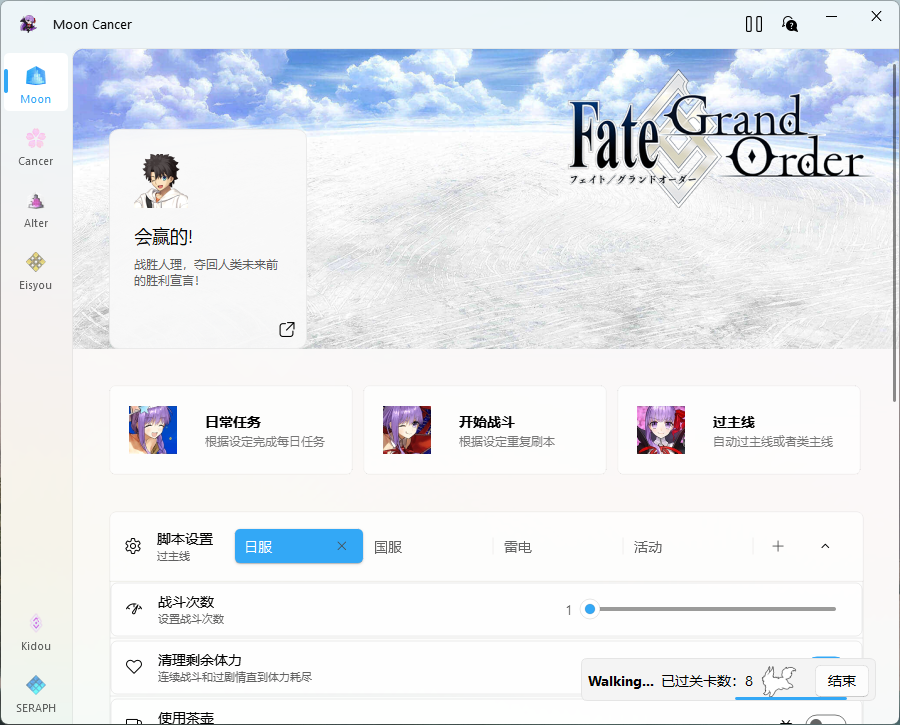
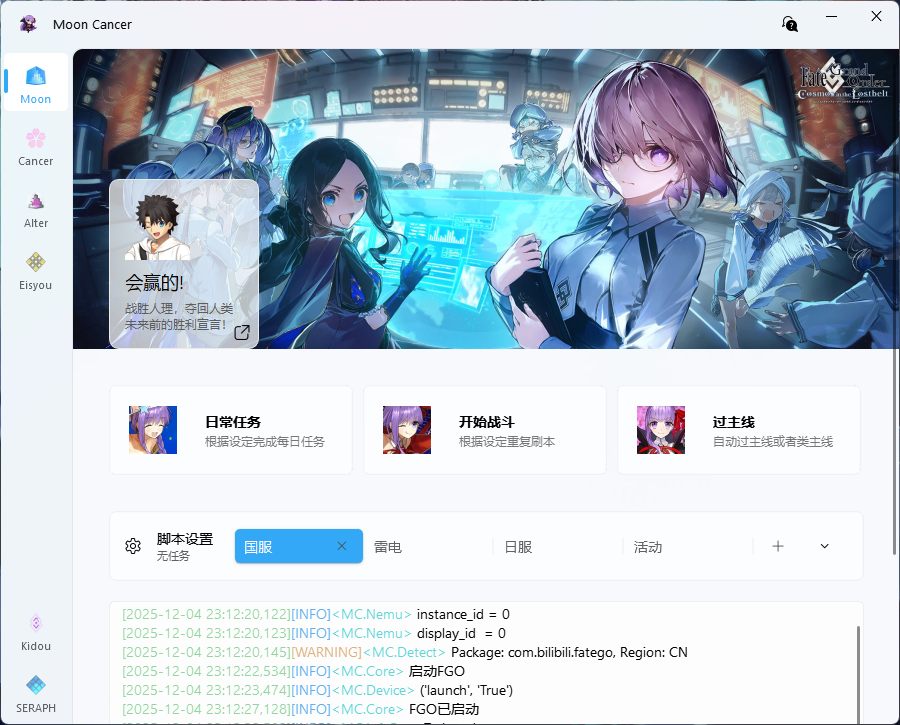
v2.4.5

diff --git a/src/content/posts/MoonCancer.md b/src/content/posts/MoonCancer.md
@@ -13,6 +13,11 @@ draft: false
 [Cancer界面说明](../mooncancer2)<br>
 [Alter界面说明](../mooncancer3)<br>
 [Eisyou界面说明](../mooncancer4)<br>
+## 2025年12月5日v2.4.5
+1.优化MuMu连接，修复连接遗留问题<br>
+2.优化助战选择和吃苹果以及部分问题<br>
+3.更新主页banner<br>
+4.适配日常术阶冠位战
 ## 2025年11月23日v2.4.4
 1.修复修改器自动计数错误<br>
 2.优化助战选择<br>
